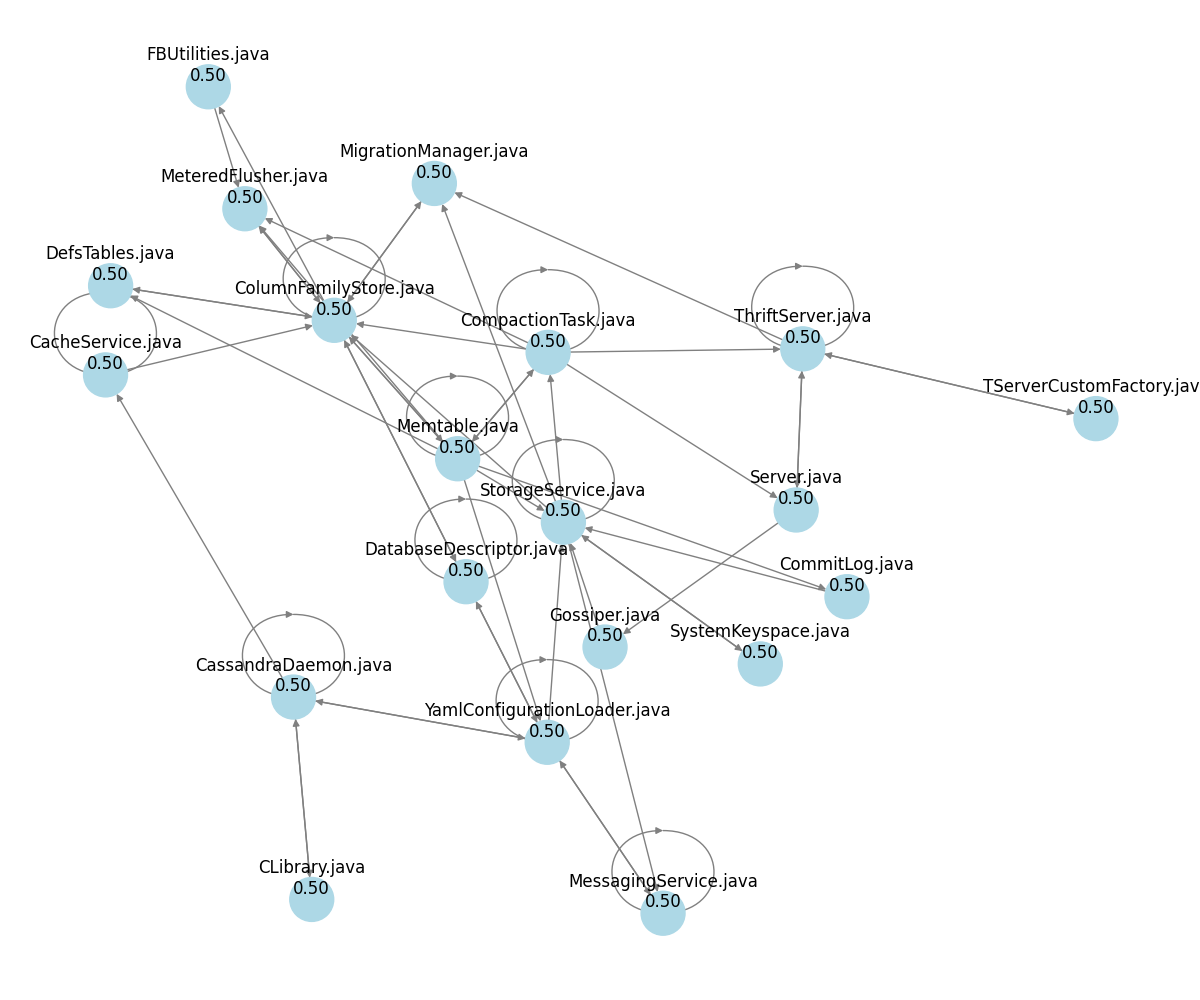
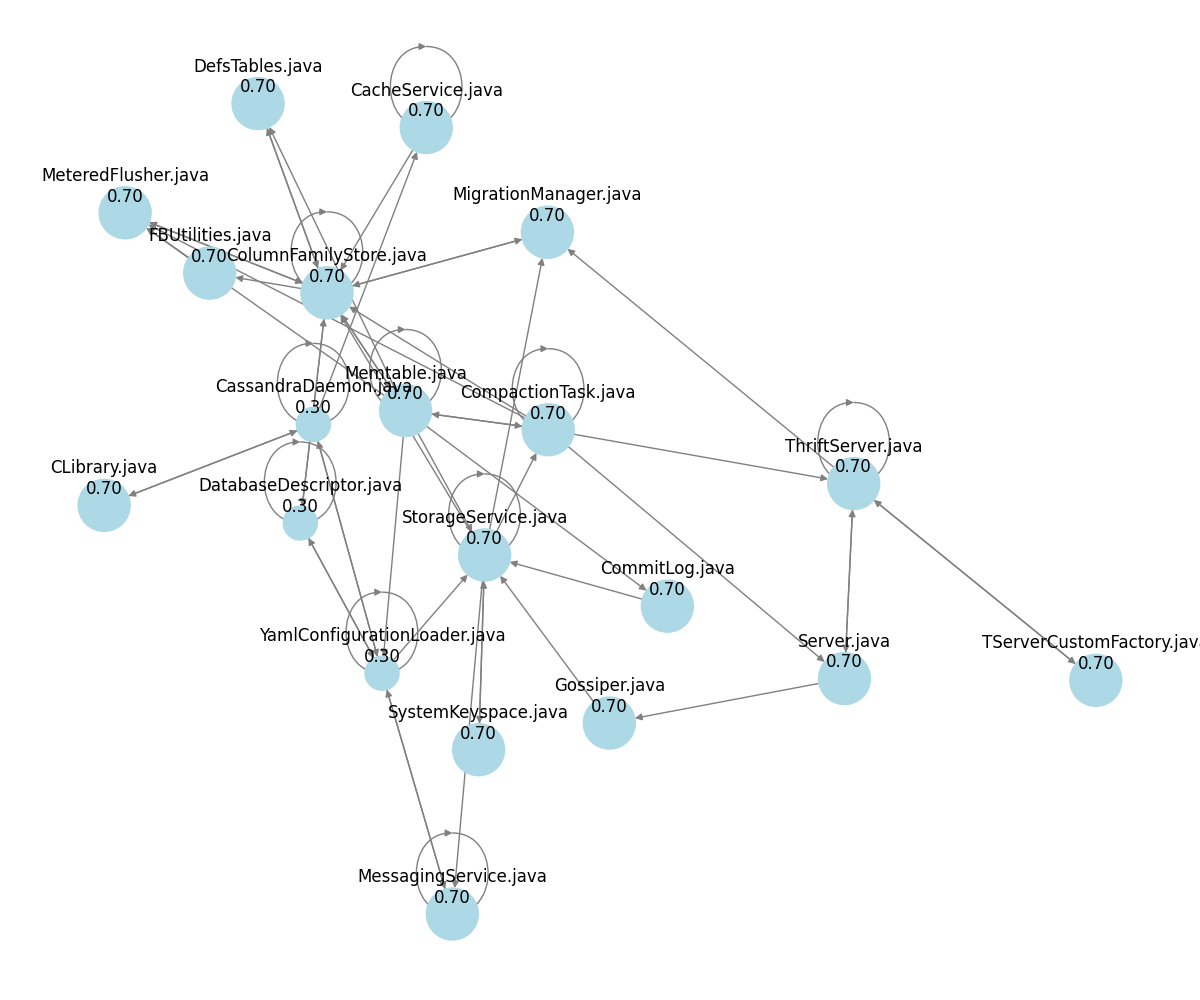
add log2json

diff --git a/utils/log2json.py b/utils/log2json.py
@@ -2,40 +2,102 @@ import re
 from collections import defaultdict
 import json
 
-with open("../system.log", "r") as file:
-    log_content = file.read()
 
-# Initialize lists to store nodes and relations
-nodes = []
-relations = []
-processed_methods = set()
-method_relations = defaultdict(list)
+def normal_log2json():
+    with open("../system.log", "r") as file:
+        log_content = file.read()
 
-# Regular expression pattern to extract method calls from log
-pattern = r"\s(\w+\.java) \(line \d+\)"
+    # Initialize lists to store nodes and relations
+    nodes = []
+    relations = []
+    processed_methods = set()
+    method_relations = defaultdict(list)
 
-# Find all method calls in the log content
-matches = re.findall(pattern, log_content)
+    # Regular expression pattern to extract method calls from log
+    pattern = r"\s(\w+\.java) \(line \d+\)"
 
-# Process each match
-for i in range(len(matches)):
-    method = matches[i]
-    if method not in processed_methods:
-        nodes.append({"id": method, "suspicion": 0.5})  # Add to nodes with default suspicion
-        processed_methods.add(method)
-    if i < len(matches) - 1:
-        # Create a relation between the current method and the next one
-        relations.append({"from": method, "to": matches[i + 1]})
-        method_relations[method].append(matches[i + 1])
+    # Find all method calls in the log content
+    matches = re.findall(pattern, log_content)
 
-# Create the final JSON structure
-json_structure = {
-    "nodes": nodes,
-    "relations": relations
-}
+    # Process each match
+    for i in range(len(matches)):
+        method = matches[i]
+        if method not in processed_methods:
+            nodes.append({"id": method, "suspicion": 0.5})  # Add to nodes with default suspicion
+            processed_methods.add(method)
+        if i < len(matches) - 1:
+            # Create a relation between the current method and the next one
+            relations.append({"from": method, "to": matches[i + 1]})
+            method_relations[method].append(matches[i + 1])
 
-print(json_structure)
+    # Create the final JSON structure
+    json_structure = {
+        "nodes": nodes,
+        "relations": relations
+    }
 
-file_path = "../input.json"
-with open(file_path, "w") as json_file:
-    json.dump(json_structure, json_file, indent=4)
+    print(json_structure)
+
+    file_path = "../input.json"
+    with open(file_path, "w") as json_file:
+        json.dump(json_structure, json_file, indent=4)
+
+
+def log2json():
+    with open("../system.log", "r") as file:
+        log_content = file.read()
+
+    # Define patterns to identify stack traces and method calls
+    stack_trace_pattern = r"(ERROR|WARN|FATAL)"
+    method_pattern = r"\s(\w+\.java) \(line \d+\)|\tat (\w+\.java):\d+"
+
+    # Split the log content into lines
+    log_lines = log_content.split("\n")
+
+    # Initialize lists to store nodes and relations
+    nodes = []
+    relations = []
+    processed_methods = set()
+    previous_method = None
+    in_stack_trace = False  # To keep track of whether we're inside a stack trace
+
+    # Iterate over the log lines to extract methods and build relations
+    for line in log_lines:
+        is_stack_trace = re.search(stack_trace_pattern, line)
+        method_match = re.search(method_pattern, line)
+
+        if is_stack_trace:
+            in_stack_trace = True
+
+        # If the line contains a method call
+        if method_match:
+            method = method_match.group(1) if method_match.group(1) else method_match.group(2)
+            suspicion_value = 0.7 if in_stack_trace else 0.3  # Set suspicion based on context
+
+            # Append method to nodes if not already processed
+            if method not in processed_methods:
+                nodes.append({"id": method, "suspicion": suspicion_value})
+                processed_methods.add(method)
+
+            # Build relation if there was a previous method in the sequence
+            if previous_method:
+                relations.append({"from": previous_method, "to": method})
+
+            previous_method = method
+
+        # Reset the stack trace flag if line is empty (assuming stack traces are separated by empty lines)
+        if not line.strip():
+            in_stack_trace = False
+
+    # Create the final JSON structure
+    json_structure_final = {
+        "nodes": nodes,
+        "relations": relations
+    }
+    file_path = "../input.json"
+    with open(file_path, "w") as json_file:
+        json.dump(json_structure_final, json_file, indent=4)
+
+
+if __name__ == "__main__":
+    log2json()
